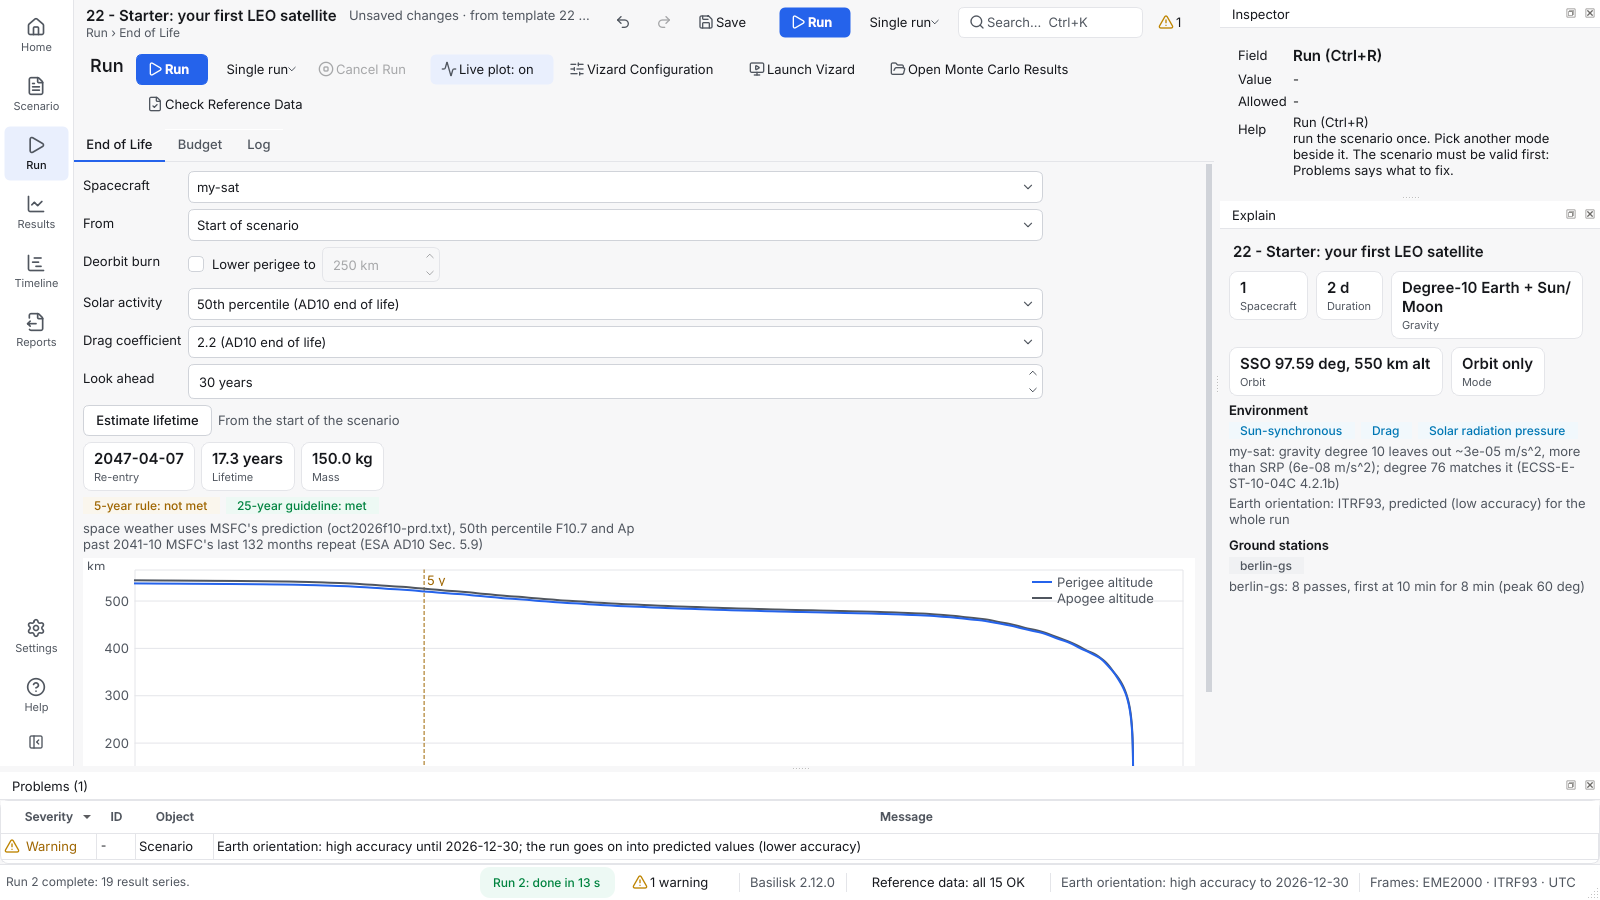
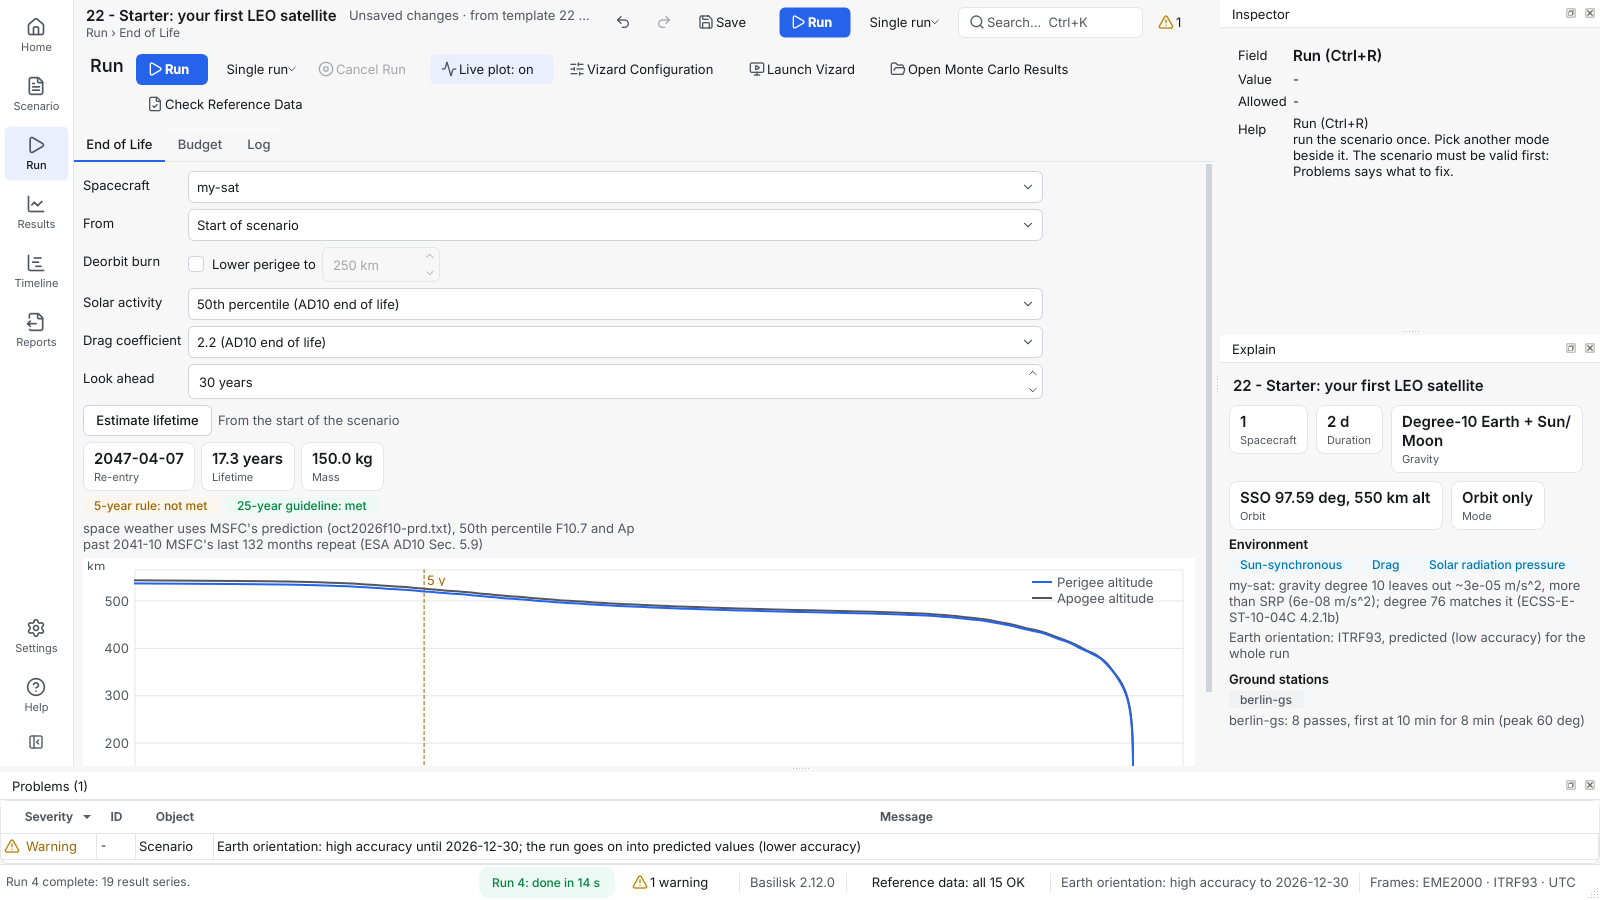
M4a: the manual's screenshots with the new forms; the harness comparison in HISTORY
Claude-Session: https://claude.ai/code/session_01Gh1F6B6T8MimrHtWajoX7f

diff --git a/SpaceMissionStudio/HISTORY.md b/SpaceMissionStudio/HISTORY.md
@@ -12341,6 +12341,24 @@ and M4b, the editing flow (the plan's §7 status; `docs/DECISIONS.md`).
   station dialog 426 px wide for a 406 px size hint); the forms are now
   finished before the dialog takes its size.
 
+**Screenshots.** `scripts/capture_ui_screens.py --theme both`, run on this
+branch and on M3, gives 113 shots per theme (M3: 114).
+- **The missing one is expected:** "Budget (AD10), scrolled to the end".
+  The harness takes it only when the tab scrolls, and with its optional
+  group collapsed the tab fits.
+- **The forms and dialogs changed as designed:** units in the fields,
+  optional groups as titles, and Monte Carlo off as its switch and one
+  line. The phasing dialog is a different size because its chief
+  station-keeping group collapses.
+- **The other shots differ only by the environment:** run-specific paths
+  and times, the inspector's focused field, a few pixels of wrapping where
+  a saved splitter differs, and semibold anti-aliasing.
+- **Not changed here:** a row with its own stretches (the antenna
+  boresight's three boxes) spreads across a wide dialog. It is still
+  inside the page; M4b rebuilds these dialogs as inline editors.
+
+The manual's screenshots in `docs/images/` are captured again.
+
 **Tests.** The full suite: 3759 passed, 12 skipped and 1 failed (Python
 3.13 here; CI runs 3.11). The failure measured the Monte Carlo page's
 dispersion buttons, which Monte Carlo off now hides; the test turns it on
